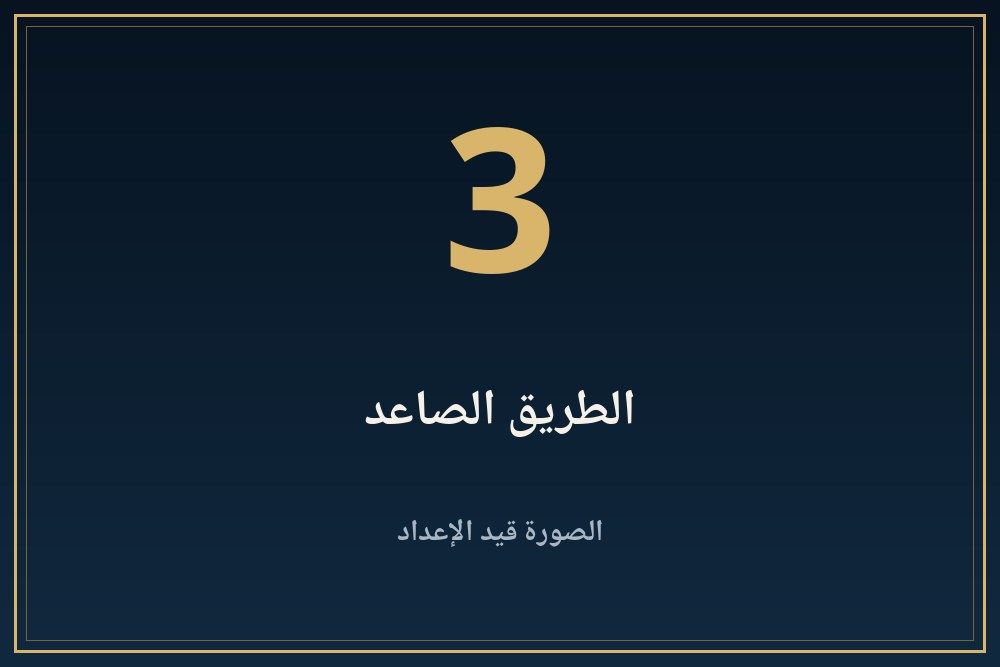
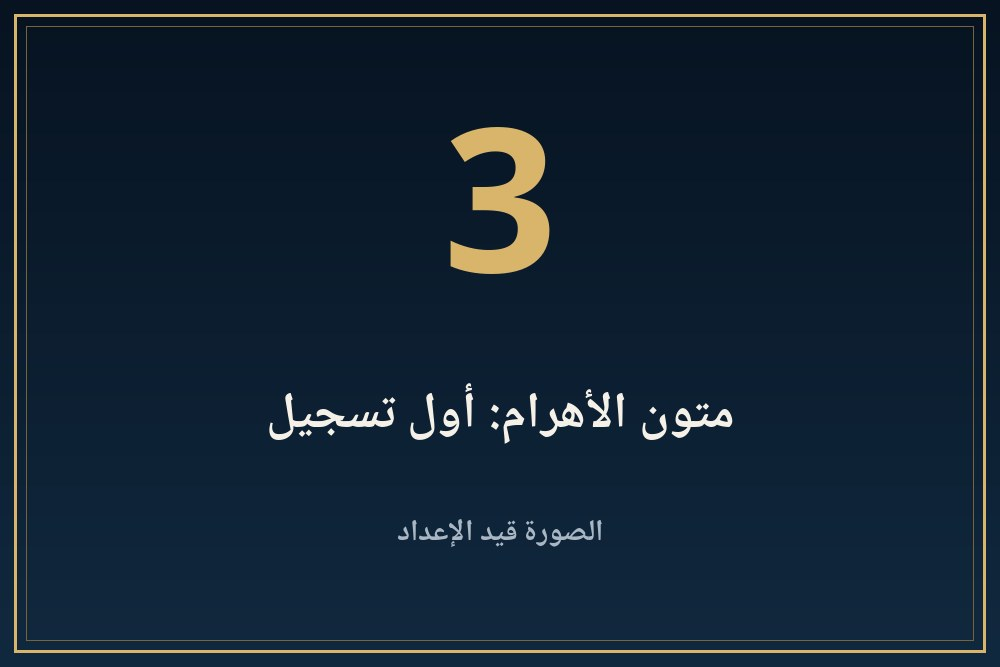
King 030: rebuilt from updated content (placeholders, audio pending)

Changed region(s): [[0.248, 0.5697, 0.744, 0.6597]]

diff --git a/kings/030-wnys/index.html b/kings/030-wnys/index.html
@@ -324,7 +324,7 @@ html[dir=ltr] #panav.open,#pash[dir=ltr] #panav.open{border-right:0!important;bo
 <div class="row"><span class="bdg v">موثّق</span><span>مذكور في مصدر مرقّم يمكن فتحه من قسم المراجع.</span></div>
 <div class="row"><span class="bdg d">محل خلاف</span><span>الصفحة نفسها تذكر أن الباحثين أو المصادر مختلفون فيه.</span></div>
 <div class="row"><span class="bdg u">لم يُتحقق منه</span><span>الصفحة تذكر أنه من مصدر واحد ولم يُتحقق منه في مصدر ثانٍ.</span></div></div>
-<div class="band" aria-hidden="true"></div><details class="acc k1" id="s1"><summary><img class="bnr" src="banners/b01.jpg?v=1" alt="" width="1000" height="667"><span class="n">1</span><span class="t">من هو وناس؟</span><span class="ch"></span></summary><div class="body"><button class="lbtn" type="button" disabled aria-disabled="true" style="opacity:.55;cursor:default"><svg viewBox="0 0 24 24" fill="currentColor" aria-hidden="true"><path d="M7 4.5v15a1 1 0 001.5.86l12-7.5a1 1 0 000-1.72l-12-7.5A1 1 0 007 4.5z"/></svg><span>التعليق الصوتي قريبًا</span></button><p><span class="bdg v">موثّق</span> يقول سليم حسن (ج1 ص266-267) إن متون الأهرام وُجدت أول مرة في هرم وناس، وإن مسبرو ترجمها ثم زيته، وإن «أصلها يرجع إلى زمن سحيق».<sup><a href="#r1">[1]</a></sup></p></div></details><details class="acc k2" id="s2"><summary><img class="bnr" src="banners/b02.jpg?v=1" alt="" loading="lazy" width="1000" height="667"><span class="n">2</span><span class="t">متون الأهرام</span><span class="ch"></span></summary><div class="body"><button class="lbtn" type="button" disabled aria-disabled="true" style="opacity:.55;cursor:default"><svg viewBox="0 0 24 24" fill="currentColor" aria-hidden="true"><path d="M7 4.5v15a1 1 0 001.5.86l12-7.5a1 1 0 000-1.72l-12-7.5A1 1 0 007 4.5z"/></svg><span>التعليق الصوتي قريبًا</span></button><p><span class="bdg v">موثّق</span> يقول سليم حسن (ص266-267) إنها وُجدت في هرمه أول مرة، وإنها ترجمها مسبرو ثم زيته، وإن أصلها قديم جدا. وهذا رأيه، ولم نقرأ بعد دراسة حديثة تؤكد القدم أو تنفيه.<sup><a href="#r1">[1]</a></sup></p></div></details><details class="acc k3" id="s3"><summary><img class="bnr" src="banners/b03.jpg?v=1" alt="" loading="lazy" width="1000" height="667"><span class="n">3</span><span class="t">الطريق الصاعد</span><span class="ch"></span></summary><div class="body"><button class="lbtn" type="button" disabled aria-disabled="true" style="opacity:.55;cursor:default"><svg viewBox="0 0 24 24" fill="currentColor" aria-hidden="true"><path d="M7 4.5v15a1 1 0 001.5.86l12-7.5a1 1 0 000-1.72l-12-7.5A1 1 0 007 4.5z"/></svg><span>التعليق الصوتي قريبًا</span></button><p><span class="bdg v">موثّق</span> يقول سليم حسن (ص267) إن حفائره كشفت معبده الجنائزي والطريق الموصل إليه «في العام الماضي»، وإن مناظر الطريق تُظهر سفنا محملة بأعمدة الجرانيت المصنوعة في أسوان جاهزة للإقامة، «لم يشهد التاريخ منظرا قبل هذا ولا بعده إلا مسلة حتشبسوت».<sup><a href="#r1">[1]</a></sup></p></div></details><details class="acc k4" id="s4"><summary><img class="bnr" src="banners/b04.jpg?v=1" alt="" loading="lazy" width="1000" height="667"><span class="n">4</span><span class="t">عصر هياكل الشمس</span><span class="ch"></span></summary><div class="body"><button class="lbtn" type="button" disabled aria-disabled="true" style="opacity:.55;cursor:default"><svg viewBox="0 0 24 24" fill="currentColor" aria-hidden="true"><path d="M7 4.5v15a1 1 0 001.5.86l12-7.5a1 1 0 000-1.72l-12-7.5A1 1 0 007 4.5z"/></svg><span>التعليق الصوتي قريبًا</span></button><p><span class="bdg v">موثّق</span> يقول سليم حسن (ص268-271) إن هياكل الشمس صُممت بمسلة نحو 50 مترا ومذبح من المرمر، وبلا ناووس. ويقول إن اللقب تحول في الأسرة من «العظيم» إلى «الطيب» (ص271). وهذا رأيه وحده.<sup><a href="#r1">[1]</a></sup></p></div></details><details class="acc k1" id="s5"><summary><img class="bnr" src="banners/b05.jpg?v=1" alt="" loading="lazy" width="1000" height="667"><span class="n">5</span><span class="t">المتون: من قال ماذا؟</span><span class="ch"></span></summary><div class="body"><button class="lbtn" type="button" disabled aria-disabled="true" style="opacity:.55;cursor:default"><svg viewBox="0 0 24 24" fill="currentColor" aria-hidden="true"><path d="M7 4.5v15a1 1 0 001.5.86l12-7.5a1 1 0 000-1.72l-12-7.5A1 1 0 007 4.5z"/></svg><span>التعليق الصوتي قريبًا</span></button><p><span class="bdg d">محل خلاف</span> سليم حسن (ص266-267) يقول إن أصلها يرجع إلى زمن سحيق، ولا نذكر تاريخا أحدث. ونحتاج إلى مصدر ثان (حواس أو صالح أو كتاب الميت) قبل إضافة رأي مقابل.<sup><a href="#r1">[1]</a></sup></p></div></details><details class="acc k2" id="s6"><summary><img class="bnr" src="banners/b06.jpg?v=1" alt="" loading="lazy" width="1000" height="667"><span class="n">6</span><span class="t">ما لا نعرفه</span><span class="ch"></span></summary><div class="body"><button class="lbtn" type="button" disabled aria-disabled="true" style="opacity:.55;cursor:default"><svg viewBox="0 0 24 24" fill="currentColor" aria-hidden="true"><path d="M7 4.5v15a1 1 0 001.5.86l12-7.5a1 1 0 000-1.72l-12-7.5A1 1 0 007 4.5z"/></svg><span>التعليق الصوتي قريبًا</span></button><p><span class="bdg u">لم يُتحقق منه</span> لم نقرأ مدة حكمه ولا أبعاد هرمه بنص مضمون. ولم نقرأ بعد ما كتبه حواس وصالح ونور الدين وكتاب الميت عنه، وهذه الصفحة مؤقتة لحين وصول الاقتباسات.</p></div></details><details class="acc k4" id="refs"><summary><img class="bnr" src="banners/b07.jpg?v=1" alt="" loading="lazy" width="1000" height="667"><span class="n">7</span><span class="t">المراجع</span><span class="ch"></span></summary><div class="body"><button class="lbtn" type="button" disabled aria-disabled="true" style="opacity:.55;cursor:default"><svg viewBox="0 0 24 24" fill="currentColor" aria-hidden="true"><path d="M7 4.5v15a1 1 0 001.5.86l12-7.5a1 1 0 000-1.72l-12-7.5A1 1 0 007 4.5z"/></svg><span>التعليق الصوتي قريبًا</span></button><p><b>مصادر فتحتُ صفحاتها وقرأتها:</b></p><ol><li id="r1" dir="auto">سليم حسن، موسوعة مصر القديمة، ج1، الفصل 15: <a dir="ltr" style="display:inline-block;overflow-wrap:anywhere" href="https://archive.org/details/20201104_20201104_1559" rel="noopener" target="_blank">archive.org/details/20201104_20201104_1559</a></li></ol><div class="flag"><b>تنبيه:</b> عدد المصادر المصرية المفتوحة لهذه الصفحة واحد فقط. لا نضيف تفاصيل لم تثبت في مصدر فتحناه وقرأنا نصه، وحيث يختلف المصدران ننسب كل رأي لصاحبه.</div></div></details></article><aside class="abt" aria-label="عن هذه الصفحة"><h3>عن هذه الصفحة</h3><ul><li><b>المحتوى</b><span>جزء من موسوعة بر عنخ التعليمية. التواريخ والتفسيرات وفق المراجع المتاحة، وقد تختلف التفاصيل بين الدراسات.</span></li><li><b>الصور</b><span>صور هذه الصفحة أماكن حجز مؤقتة إلى أن تُضاف الصور الفنية.</span></li><li><b>الصوت</b><span>التعليق الصوتي قيد الإعداد.</span></li></ul></aside><a class="back" href="/kings/">← تصفح المزيد</a><a class="back" href="/">العودة إلى الرئيسية</a><dialog id="lb"><img alt=""><p></p><button type="button">إغلاق</button></dialog>
+<div class="band" aria-hidden="true"></div><details class="acc k1" id="s1"><summary><img class="bnr" src="banners/b01.jpg?v=1" alt="" width="1000" height="667"><span class="n">1</span><span class="t">من هو وناس؟</span><span class="ch"></span></summary><div class="body"><button class="lbtn" type="button" disabled aria-disabled="true" style="opacity:.55;cursor:default"><svg viewBox="0 0 24 24" fill="currentColor" aria-hidden="true"><path d="M7 4.5v15a1 1 0 001.5.86l12-7.5a1 1 0 000-1.72l-12-7.5A1 1 0 007 4.5z"/></svg><span>التعليق الصوتي قريبًا</span></button><p><span class="bdg v">موثّق</span> يقول كتاب الميت (ص34) إن بردية تورين ومانيتون يجعلانه آخر ملوك الأسرة الخامسة باسم الحوري «واج تاوي» أي «مُزهر الأرضين»، وإن حكمه نحو ثلاثين سنة. ويقول صالح (ص206-208) باسم «ونيس»، ونور الدين (ص514) «ونيس أو أوناس».<sup><a href="#r2">[2]</a><a href="#r3">[3]</a><a href="#r4">[4]</a></sup></p></div></details><details class="acc k2" id="s2"><summary><img class="bnr" src="banners/b02.jpg?v=1" alt="" loading="lazy" width="1000" height="667"><span class="n">2</span><span class="t">هل انقطعت الأسرة بعده؟</span><span class="ch"></span></summary><div class="body"><button class="lbtn" type="button" disabled aria-disabled="true" style="opacity:.55;cursor:default"><svg viewBox="0 0 24 24" fill="currentColor" aria-hidden="true"><path d="M7 4.5v15a1 1 0 001.5.86l12-7.5a1 1 0 000-1.72l-12-7.5A1 1 0 007 4.5z"/></svg><span>التعليق الصوتي قريبًا</span></button><p><span class="bdg d">محل خلاف</span> يقول كتاب الميت (ص34) إن وقوع قطيعة بعده «يجب إعادة النظر فيه»، فالآثار تبين استمرارا في الفن والعمارة، وليس ما يدل على توقف الحياة الإدارية. ويحتمل أن ونيس ابن إسيسي وجد بيبي الأول، وأن عبادته استمرت حتى الدولة الوسطى. فمصدرنا يشكك في التقسيم إلى أسرتين.<sup><a href="#r4">[4]</a></sup></p></div></details><details class="acc k3" id="s3"><summary><img class="bnr" src="banners/b03.jpg?v=1" alt="" loading="lazy" width="1000" height="667"><span class="n">3</span><span class="t">متون الأهرام: أول تسجيل</span><span class="ch"></span></summary><div class="body"><button class="lbtn" type="button" disabled aria-disabled="true" style="opacity:.55;cursor:default"><svg viewBox="0 0 24 24" fill="currentColor" aria-hidden="true"><path d="M7 4.5v15a1 1 0 001.5.86l12-7.5a1 1 0 000-1.72l-12-7.5A1 1 0 007 4.5z"/></svg><span>التعليق الصوتي قريبًا</span></button><p><span class="bdg v">موثّق</span> يقول نور الدين (ص513) إن متون الأهرام سُجلت لأول مرة على جدران غرف وممرات هرم أوناس في سقارة، واستمر تسجيلها في أهرام الأسرة السادسة وزوجاتهم. ويقول كتاب الميت (ص34) إن جدران حجرة دفنه منقوشة بنصوص تضمن بعثه وخلوده. ويقول سليم حسن (ص266-267) إنها وُجدت أول مرة في هرمه.<sup><a href="#r1">[1]</a><a href="#r3">[3]</a><a href="#r4">[4]</a></sup></p></div></details><details class="acc k4" id="s4"><summary><img class="bnr" src="banners/b04.jpg?v=1" alt="" loading="lazy" width="1000" height="667"><span class="n">4</span><span class="t">هل ألّفت في عهده؟</span><span class="ch"></span></summary><div class="body"><button class="lbtn" type="button" disabled aria-disabled="true" style="opacity:.55;cursor:default"><svg viewBox="0 0 24 24" fill="currentColor" aria-hidden="true"><path d="M7 4.5v15a1 1 0 001.5.86l12-7.5a1 1 0 000-1.72l-12-7.5A1 1 0 007 4.5z"/></svg><span>التعليق الصوتي قريبًا</span></button><p><span class="bdg d">محل خلاف</span> يقول صالح (ص206-207) إن تسجيلها في عهد ونيس لا يعني أنها ألّفت فيه لأول مرة أو من وضع فرد بعينه، وإنها على الأرجح من حصيلة قرون ومذاهب متعددة، ظلت متفرقة في صدور الكهان وعلى الأفواه والبردي حتى صحت الرغبة في تسجيلها في باطن الهرم. ويقول نور الدين (ص513) مثله: إنها نتاج الفكر الديني منذ أقدم العصور. ويقول سليم حسن (ص266-267) إن «أصلها يرجع إلى زمن سحيق». فالمصادر الثلاثة متفقة على قدمها.<sup><a href="#r1">[1]</a><a href="#r2">[2]</a><a href="#r3">[3]</a></sup></p></div></details><details class="acc k1" id="s5"><summary><img class="bnr" src="banners/b05.jpg?v=1" alt="" loading="lazy" width="1000" height="667"><span class="n">5</span><span class="t">اكتشاف ماسبيرو</span><span class="ch"></span></summary><div class="body"><button class="lbtn" type="button" disabled aria-disabled="true" style="opacity:.55;cursor:default"><svg viewBox="0 0 24 24" fill="currentColor" aria-hidden="true"><path d="M7 4.5v15a1 1 0 001.5.86l12-7.5a1 1 0 000-1.72l-12-7.5A1 1 0 007 4.5z"/></svg><span>التعليق الصوتي قريبًا</span></button><p><span class="bdg v">موثّق</span> يقول نور الدين (ص514) إن ماسبيرو اكتشفها بين 1880 و1881 في أهرام أوناس وبيبي الأول ومري إن رع وبيبي الثاني، وإنها تنوعت بين نصوص درامية وسحرية وأناشيد وصلوات وتعاويذ وطقوس قرابين. ويقول سليم حسن (ص266-267) إن ماسبيرو ترجمها ثم زيته.<sup><a href="#r1">[1]</a><a href="#r3">[3]</a></sup></p></div></details><details class="acc k2" id="s6"><summary><img class="bnr" src="banners/b06.jpg?v=1" alt="" loading="lazy" width="1000" height="667"><span class="n">6</span><span class="t">ما لم يُنقش</span><span class="ch"></span></summary><div class="body"><button class="lbtn" type="button" disabled aria-disabled="true" style="opacity:.55;cursor:default"><svg viewBox="0 0 24 24" fill="currentColor" aria-hidden="true"><path d="M7 4.5v15a1 1 0 001.5.86l12-7.5a1 1 0 000-1.72l-12-7.5A1 1 0 007 4.5z"/></svg><span>التعليق الصوتي قريبًا</span></button><p><span class="bdg d">محل خلاف</span> يقول صالح (ص207) إنهم قبلوا كل ما تتسع له المساحات المعدة للنقش في باطن الهرم إلا الجدار الغربي لحجرة الدفن حيث يوضع التابوت، ليرى الملك المستلقي على جانبه ما حوله من التراتيل. ويقول إنه ربما سُجلت تعويضا عن صغر الهرم.<sup><a href="#r2">[2]</a></sup></p></div></details><details class="acc k3" id="s7"><summary><img class="bnr" src="banners/b07.jpg?v=1" alt="" loading="lazy" width="1000" height="667"><span class="n">7</span><span class="t">عدد الفقرات</span><span class="ch"></span></summary><div class="body"><button class="lbtn" type="button" disabled aria-disabled="true" style="opacity:.55;cursor:default"><svg viewBox="0 0 24 24" fill="currentColor" aria-hidden="true"><path d="M7 4.5v15a1 1 0 001.5.86l12-7.5a1 1 0 000-1.72l-12-7.5A1 1 0 007 4.5z"/></svg><span>التعليق الصوتي قريبًا</span></button><p><span class="bdg u">لم يُتحقق منه</span> يقول صالح (ص208) إنها زادت عند اكتمالها عن عدد مشوّه في نسختنا (يبدو نحو سبعمئة فقرة)، فلا نذكر رقما.<sup><a href="#r2">[2]</a></sup></p></div></details><details class="acc k4" id="s8"><summary><img class="bnr" src="banners/b08.jpg?v=1" alt="" loading="lazy" width="1000" height="667"><span class="n">8</span><span class="t">الطريق الصاعد</span><span class="ch"></span></summary><div class="body"><button class="lbtn" type="button" disabled aria-disabled="true" style="opacity:.55;cursor:default"><svg viewBox="0 0 24 24" fill="currentColor" aria-hidden="true"><path d="M7 4.5v15a1 1 0 001.5.86l12-7.5a1 1 0 000-1.72l-12-7.5A1 1 0 007 4.5z"/></svg><span>التعليق الصوتي قريبًا</span></button><p><span class="bdg v">موثّق</span> يقول سليم حسن (ص267) إن مناظر الطريق تُظهر سفنا محملة بأعمدة الجرانيت المصنوعة في أسوان، جاهزة للإقامة، وإن التاريخ لم يشهد منظرا مثله إلا مسلة حتشبسوت.<sup><a href="#r1">[1]</a></sup></p></div></details><details class="acc k1" id="s9"><summary><img class="bnr" src="banners/b09.jpg?v=1" alt="" loading="lazy" width="1000" height="667"><span class="n">9</span><span class="t">ترميم خع إم واس</span><span class="ch"></span></summary><div class="body"><button class="lbtn" type="button" disabled aria-disabled="true" style="opacity:.55;cursor:default"><svg viewBox="0 0 24 24" fill="currentColor" aria-hidden="true"><path d="M7 4.5v15a1 1 0 001.5.86l12-7.5a1 1 0 000-1.72l-12-7.5A1 1 0 007 4.5z"/></svg><span>التعليق الصوتي قريبًا</span></button><p><span class="bdg v">موثّق</span> يقول نور الدين (ص256) إن صورة جنوب الهرم تُظهر نقش الأمير خع إم واس ابن رمسيس الثاني، يوضح أنه رمّم المجموعة.<sup><a href="#r3">[3]</a></sup></p></div></details><details class="acc k2" id="s10"><summary><img class="bnr" src="banners/b10.jpg?v=1" alt="" loading="lazy" width="1000" height="667"><span class="n">10</span><span class="t">موضعه بين الأهرام</span><span class="ch"></span></summary><div class="body"><button class="lbtn" type="button" disabled aria-disabled="true" style="opacity:.55;cursor:default"><svg viewBox="0 0 24 24" fill="currentColor" aria-hidden="true"><path d="M7 4.5v15a1 1 0 001.5.86l12-7.5a1 1 0 000-1.72l-12-7.5A1 1 0 007 4.5z"/></svg><span>التعليق الصوتي قريبًا</span></button><p><span class="bdg v">موثّق</span> يقول كتاب الميت (ص49) إن هرمه في جنوب سقارة. ويقول نور الدين (ص215) إن أهرام الأسرة الخامسة «فقيرة في بنائها» قياسا بالأسرة الرابعة.<sup><a href="#r3">[3]</a><a href="#r4">[4]</a></sup></p></div></details><details class="acc k3" id="s11"><summary><img class="bnr" src="banners/b11.jpg?v=1" alt="" loading="lazy" width="1000" height="667"><span class="n">11</span><span class="t">ما لا نعرفه</span><span class="ch"></span></summary><div class="body"><button class="lbtn" type="button" disabled aria-disabled="true" style="opacity:.55;cursor:default"><svg viewBox="0 0 24 24" fill="currentColor" aria-hidden="true"><path d="M7 4.5v15a1 1 0 001.5.86l12-7.5a1 1 0 000-1.72l-12-7.5A1 1 0 007 4.5z"/></svg><span>التعليق الصوتي قريبًا</span></button><p><span class="bdg u">لم يُتحقق منه</span> لا نعرف أبعاد هرمه بنص مضمون، ولا هوية أسرته بيقين، ولا ما إذا كان انتقال الحكم بعده قطيعة. ولم نذكر أرقاما مشوهة.</p></div></details><details class="acc k4" id="refs"><summary><img class="bnr" src="banners/b12.jpg?v=1" alt="" loading="lazy" width="1000" height="667"><span class="n">12</span><span class="t">المراجع</span><span class="ch"></span></summary><div class="body"><button class="lbtn" type="button" disabled aria-disabled="true" style="opacity:.55;cursor:default"><svg viewBox="0 0 24 24" fill="currentColor" aria-hidden="true"><path d="M7 4.5v15a1 1 0 001.5.86l12-7.5a1 1 0 000-1.72l-12-7.5A1 1 0 007 4.5z"/></svg><span>التعليق الصوتي قريبًا</span></button><p><b>مصادر فتحتُ صفحاتها وقرأتها:</b></p><ol><li id="r1" dir="auto">سليم حسن، موسوعة مصر القديمة، ج1، الفصل 15: <a dir="ltr" style="display:inline-block;overflow-wrap:anywhere" href="https://archive.org/details/20201104_20201104_1559" rel="noopener" target="_blank">archive.org/details/20201104_20201104_1559</a></li><li id="r2" dir="auto">عبد العزيز صالح، الشرق الأدنى القديم ج1 (مصر والعراق)، أرقام صفحات PDF: <a dir="ltr" style="display:inline-block;overflow-wrap:anywhere" href="https://archive.org/details/20210510_20210510_0037" rel="noopener" target="_blank">archive.org/details/20210510_20210510_0037</a></li><li id="r3" dir="auto">عبد الحليم نور الدين، آثار وحضارة مصر القديمة ج1، أرقام صفحات PDF: <a dir="ltr" style="display:inline-block;overflow-wrap:anywhere" href="https://archive.org/details/AAlexandrina-117303" rel="noopener" target="_blank">archive.org/details/AAlexandrina-117303</a></li><li id="r4" dir="auto">The Metropolitan Museum of Art, Egyptian Art in the Age of the Pyramids, 1999 (فصول كوزلوف وأرنولد وزيجلر وجريمال): <a dir="ltr" style="display:inline-block;overflow-wrap:anywhere" href="https://www.metmuseum.org/met-publications/egyptian-art-in-the-age-of-the-pyramids" rel="noopener" target="_blank">www.metmuseum.org/met-publications/egyptian-art-in-the-age-of-the-pyramids</a></li></ol></div></details></article><aside class="abt" aria-label="عن هذه الصفحة"><h3>عن هذه الصفحة</h3><ul><li><b>المحتوى</b><span>جزء من موسوعة بر عنخ التعليمية. التواريخ والتفسيرات وفق المراجع المتاحة، وقد تختلف التفاصيل بين الدراسات.</span></li><li><b>الصور</b><span>صور هذه الصفحة أماكن حجز مؤقتة إلى أن تُضاف الصور الفنية.</span></li><li><b>الصوت</b><span>التعليق الصوتي قيد الإعداد.</span></li></ul></aside><a class="back" href="/kings/">← تصفح المزيد</a><a class="back" href="/">العودة إلى الرئيسية</a><dialog id="lb"><img alt=""><p></p><button type="button">إغلاق</button></dialog>
 <script>(function(){var A=function(){return document.querySelectorAll("details.acc")};
 document.getElementById("all").onclick=function(){A().forEach(function(d){d.open=true})};
 document.getElementById("none").onclick=function(){A().forEach(function(d){d.open=false})};
@@ -332,7 +332,7 @@ function go(h){var e=h&&document.getElementById(h.slice(1));if(!e)return;var d=e
 document.addEventListener("click",function(e){var a=e.target.closest&&e.target.closest('a[href^="#"]');if(a){go(a.getAttribute("href"))}});
 if(location.hash)go(location.hash);
 var d=document.getElementById("lb");if(!d||!d.showModal)return;var im=d.querySelector("img"),p=d.querySelector("p");document.addEventListener("click",function(e){var t=e.target;if(t.tagName=="IMG"&&t.closest(".fig")){im.src=t.src;im.alt=t.alt;p.textContent=t.closest("figure").querySelector("figcaption").innerText;d.showModal()}else if(t==d||t.tagName=="BUTTON"&&d.contains(t)){d.close()}})})();</script><div class="pbar" id="pbar"></div><div class="pl" id="pl" role="region" aria-label="مشغّل الاستماع"><div class="in"><button class="pp" id="pp" type="button" aria-label="تشغيل"><svg viewBox="0 0 24 24" fill="currentColor" aria-hidden="true"><path d="M7 4.5v15a1 1 0 001.5.86l12-7.5a1 1 0 000-1.72l-12-7.5A1 1 0 007 4.5z"/></svg></button><div class="mid"><div class="ttl"><span id="tt">استماع</span> <i>صوت اصطناعي</i></div><input id="sk" type="range" min="0" max="1000" value="0" aria-label="موضع التشغيل"><div class="tm"><span id="cur">0:00</span><span id="dur">0:00</span></div></div><div class="ex"><button id="bk" type="button" aria-label="رجوع 10 ثوانٍ">−10</button><button id="fw" type="button" aria-label="تقدم 10 ثوانٍ">+10</button><button id="sp" class="sp" type="button" aria-label="سرعة التشغيل">1×</button><button id="cl" type="button" aria-label="إغلاق المشغّل">✕</button></div><p class="err" id="er" role="alert" hidden>تعذر تحميل الملف الصوتي. حاول لاحقًا.</p></div><div aria-live="polite" id="st" style="position:absolute;left:-9999px"></div><audio id="au" preload="none"></audio></div></main><script>(function(){
-var S={"s1": ["من هو وناس؟", 1], "s2": ["متون الأهرام", 1], "s3": ["الطريق الصاعد", 1], "s4": ["عصر هياكل الشمس", 1], "s5": ["المتون: من قال ماذا؟", 1], "s6": ["ما لا نعرفه", 1], "refs": ["المراجع", 1]},$=function(i){return document.getElementById(i)},au=$("au"),pl=$("pl"),pp=$("pp"),sk=$("sk"),P="<svg viewBox=\"0 0 24 24\" fill=\"currentColor\" aria-hidden=\"true\"><path d=\"M7 4.5v15a1 1 0 001.5.86l12-7.5a1 1 0 000-1.72l-12-7.5A1 1 0 007 4.5z\"/></svg>",Q="<svg viewBox=\"0 0 24 24\" fill=\"currentColor\" aria-hidden=\"true\"><rect x=\"5.5\" y=\"4\" width=\"4.5\" height=\"16\" rx=\"1.2\"/><rect x=\"14\" y=\"4\" width=\"4.5\" height=\"16\" rx=\"1.2\"/></svg>",cur=null,part=1,seeking=false;
+var S={"s1": ["من هو وناس؟", 1], "s2": ["هل انقطعت الأسرة بعده؟", 1], "s3": ["متون الأهرام: أول تسجيل", 1], "s4": ["هل ألّفت في عهده؟", 1], "s5": ["اكتشاف ماسبيرو", 1], "s6": ["ما لم يُنقش", 1], "s7": ["عدد الفقرات", 1], "s8": ["الطريق الصاعد", 1], "s9": ["ترميم خع إم واس", 1], "s10": ["موضعه بين الأهرام", 1], "s11": ["ما لا نعرفه", 1], "refs": ["المراجع", 1]},$=function(i){return document.getElementById(i)},au=$("au"),pl=$("pl"),pp=$("pp"),sk=$("sk"),P="<svg viewBox=\"0 0 24 24\" fill=\"currentColor\" aria-hidden=\"true\"><path d=\"M7 4.5v15a1 1 0 001.5.86l12-7.5a1 1 0 000-1.72l-12-7.5A1 1 0 007 4.5z\"/></svg>",Q="<svg viewBox=\"0 0 24 24\" fill=\"currentColor\" aria-hidden=\"true\"><rect x=\"5.5\" y=\"4\" width=\"4.5\" height=\"16\" rx=\"1.2\"/><rect x=\"14\" y=\"4\" width=\"4.5\" height=\"16\" rx=\"1.2\"/></svg>",cur=null,part=1,seeking=false;
 function fmt(t){if(!isFinite(t))return"0:00";var m=Math.floor(t/60),s=Math.floor(t%60);return m+":"+(s<10?"0":"")+s}
 function btns(){document.querySelectorAll(".lbtn").forEach(function(b){var on=b.dataset.s===cur&&!au.paused;b.classList.toggle("on",on);b.querySelector("span").textContent=on?"إيقاف مؤقت":(b.dataset.s===cur&&au.currentTime>1?"أكمل الاستماع":"استمع لهذا القسم");b.querySelector("svg").outerHTML=on?Q:P})}
 function ui(){var pa=au.paused;pp.innerHTML=pa?P:Q;pp.setAttribute("aria-label",pa?"تشغيل":"إيقاف مؤقت");btns()}
